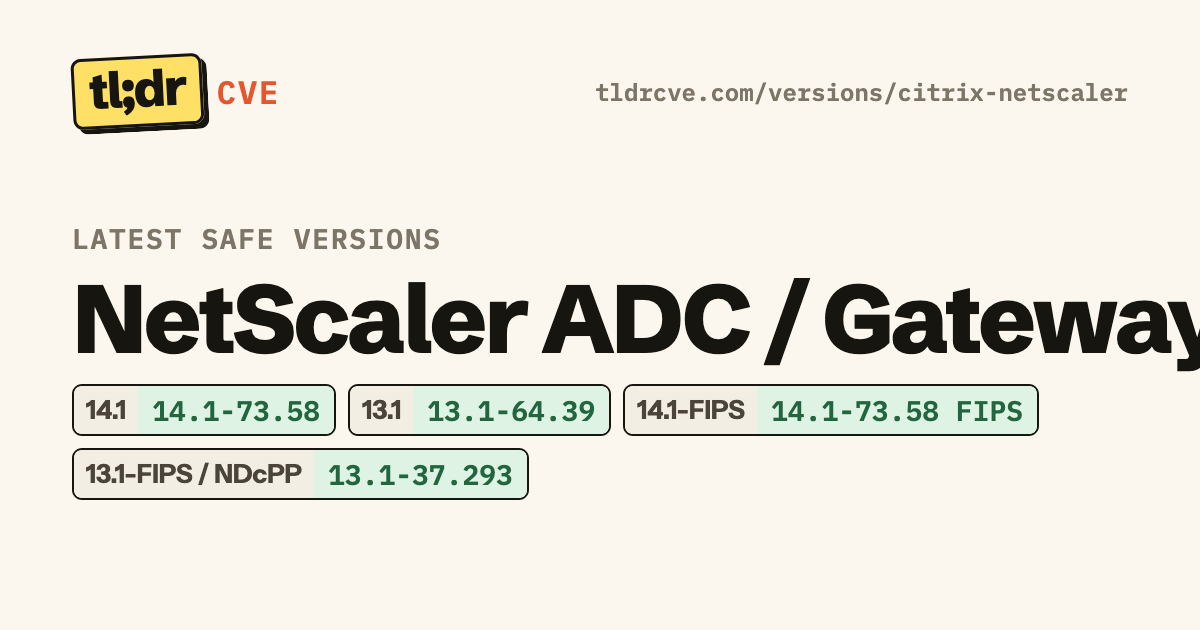
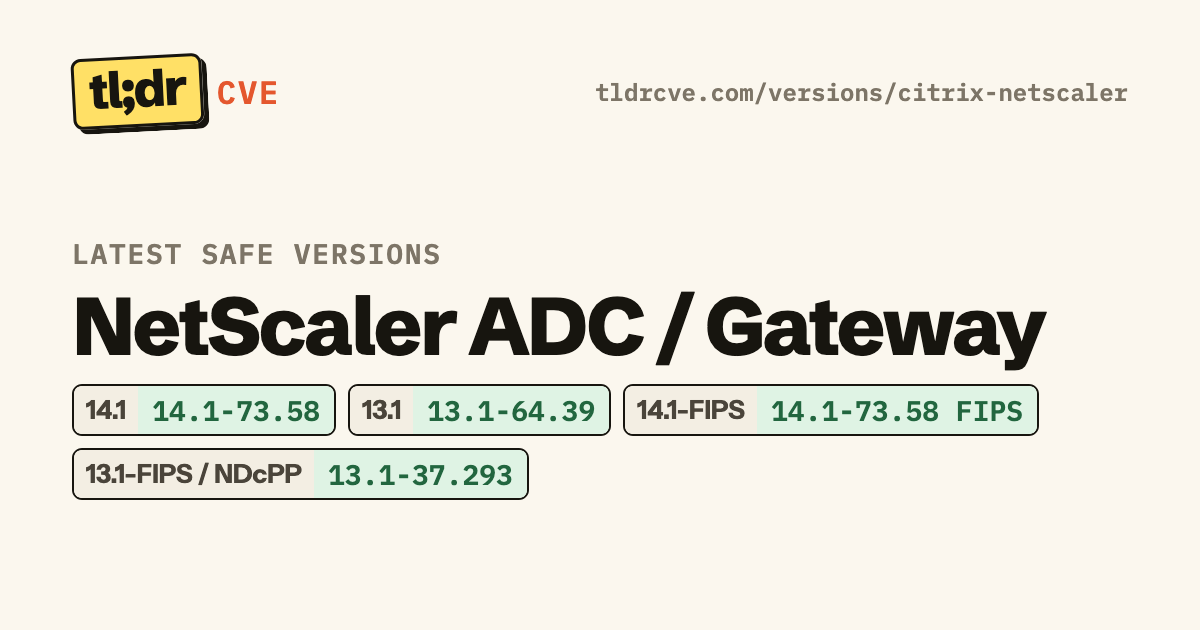
Shrink long product names on Safe versions cards
Names over about 18 characters ran off the right edge of the card
(SAP kernel and Web Dispatcher, NetScaler ADC / Gateway, React Server
Components). The title now gets a smaller font size to fit one line;
four cards are redrawn.

Changed region(s): [[0.0617, 0.4222, 1.0, 0.6032], [0.0617, 0.3619, 0.37, 0.4222]]

diff --git a/tools/cards.py b/tools/cards.py
@@ -106,8 +106,14 @@ def product_card(v, n_bugs):
     if len(lines) > len(shown):
         chips += f'<span class="more">+{len(lines) - len(shown)} more</span>'
     return f"""{header("tldrcve.com/versions/" + v["id"])}
-<div class="main"><div class="kick">Latest safe versions</div><h1>{html.escape(v["name"])}</h1>
+<div class="main"><div class="kick">Latest safe versions</div><h1{h1_size(v["name"])}>{html.escape(v["name"])}</h1>
 <div class="chips">{chips}</div></div>"""
+
+
+def h1_size(name: str) -> str:
+    """Long product names get a smaller title so they fit on one line (about 0.56 em per character at 96px)."""
+    size = min(96, int((W - 144) / (0.56 * len(name))))
+    return "" if size == 96 else f' style="font-size:{size}px"'
 
 
 def find_browser():
